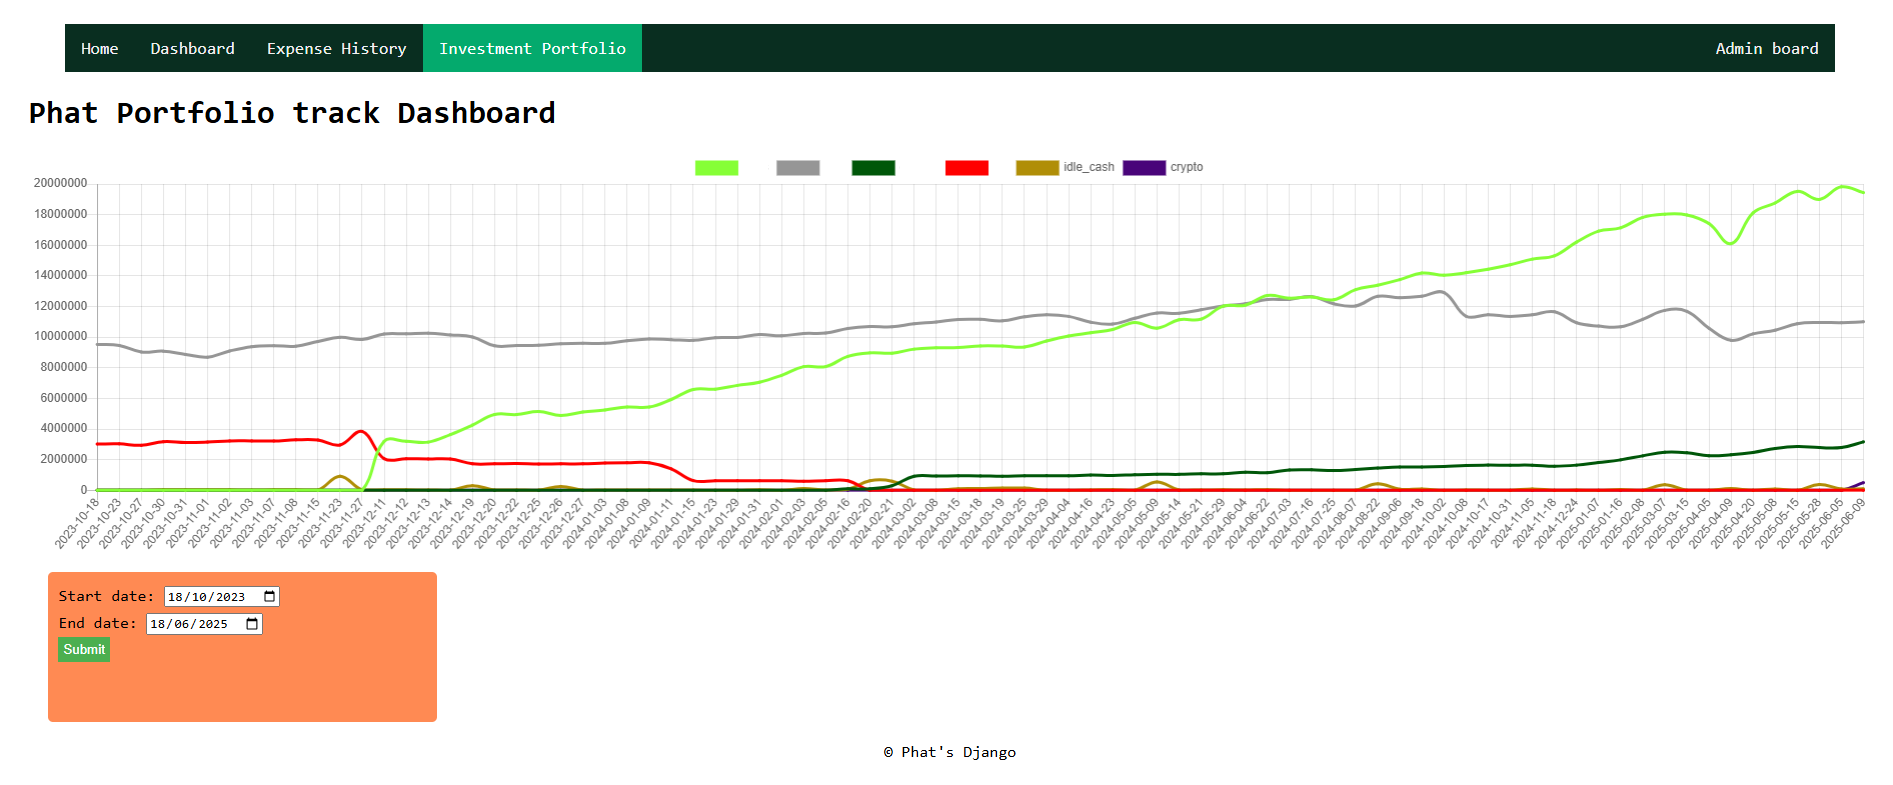
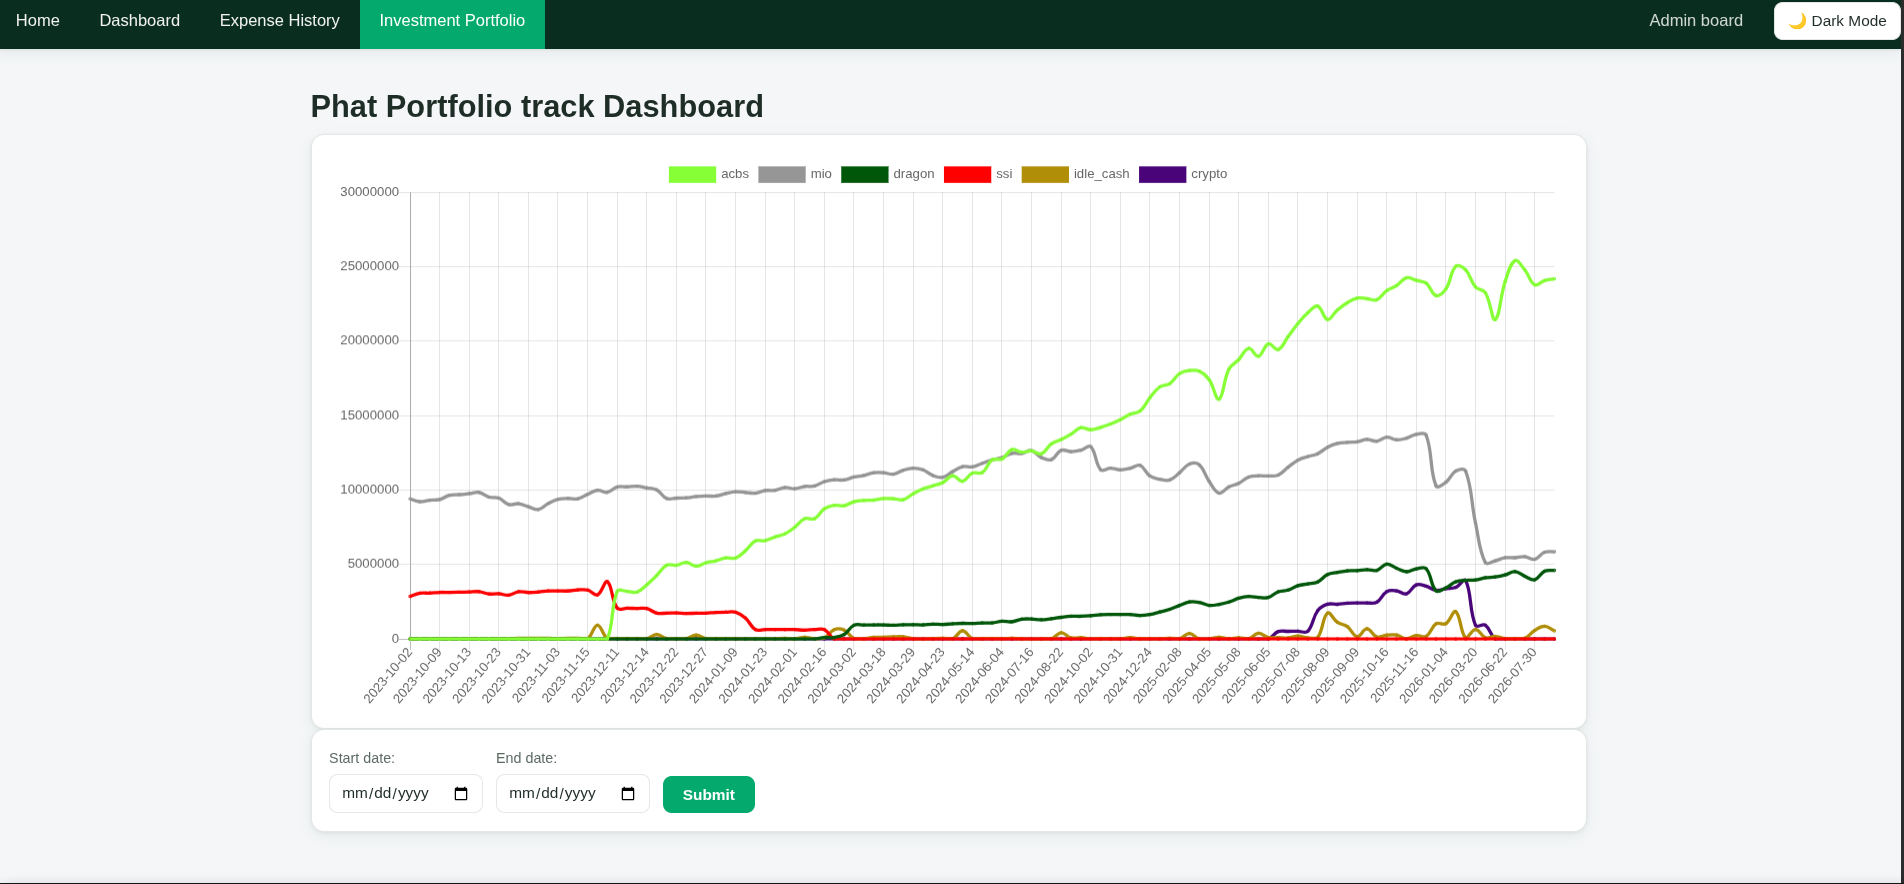
Update README.md

diff --git a/README.md b/README.md
@@ -1,40 +1,71 @@
-# Phat_Django_Badass
-> This is the Django backend to handle all the stuff in my life.
-I meant from personal finance, investment, dividend income or my gym routine to other stuffs that requires data management.
-I intended to build this not for my own usage only but for my family as well. User authentication and permission will be not a big deal tho
------
+<p align="center">
+  <h1 align="center">Phat_Django_Badass</h1>
+  <p align="center">
+    <b>Your personal command center for finance, investments, and life admin.</b><br>
+    Built with Django. Designed for family-scale use.
+  </p>
+</p>
 
-<h2>Financial Dashboard</h2>
-<p>My personal financial dashboard to keep things up-to-date</p>
+---
 
-<img title="" alt="" src="statics/Phat_Django_Dashboard.png"
-style="width:100%"/>
+## About
 
------
+This Django backend powers everything from personal finance, investments, and dividend income to gym routines and any other data-driven corners of life.
 
-<h2>Investment</h2>
-<p>Track my investment progress overtime, data input via Django admin model input form</p>
+Originally built for myself and extended for my family, it comes with robust user authentication and permission management baked in from day one.
 
-<img title="" alt="" src="statics/phat_investment_portfolio.png"
-style="width:100%"/>
+---
 
-## Tech used
-I want to keep cost down so I try some free-tier services, which also get the job done (the user pool is small, to be hosnest 👀😏)
+## Features
 
-- Clouflare D1 databasse <-> SQLite 🛢\
-The main database is hosted using Clouflare D1, this is the most suitable SQL cloudbase I can find to be cost-effective and lightweight. Of course, the database needs to be ACID compliant, or else the whole transaction thingy will be pointless.
+### Financial Dashboard
+A clean, real-time dashboard to keep your personal finances up to date.
 
-- Upstash Redis <-> Redis 🟥 \
-Redis is a exellent key-value based database, suitable for rapidly update value like balances, expenses and my real-time financial dashboard
+<p align="center">
+  <img alt="Dashboard - Light Mode" src="statics/Phat_Django_Dashboard_light.png" width="100%">
+  <img alt="Dashboard - Dark Mode" src="statics/Phat_Django_Dashboard_dark.png" width="100%">
+</p>
+
+### Expense Tracker
+Visualize spending habits and expenses at a glance.
+
+<p align="center">
+  <img alt="Expense Tracker" src="statics/Phat_Expense.png" width="100%">
+</p>
+
+### Investment Tracker
+Track investment progress over time. Data is entered via Django's built-in admin interface.
+
+<p align="center">
+  <img alt="Investment Portfolio" src="statics/phat_investment_portfolio.png" width="100%">
+</p>
+
+---
+
+## Tech Stack
+
+Kept lean and cost-effective — running on generous free-tier services that easily handle a small user pool (just family & friends 👀).
+
+| Service | Role | Why It Fits |
+|---------|------|-------------|
+| **Django** | Backend & Admin | Python web framework for rapid, secure development |
+| **Cloudflare D1** 🛢 | Primary Database | Serverless SQLite — ACID compliant, lightweight, and cost-effective |
+| **Upstash Redis** 🟥 | Caching & Real-time | Lightning-fast key-value store for balances, expenses, and live dashboard metrics |
+| **Docker** 🐳 | Deployment | Consistent, portable environments across the board |
+
+---
 
 ## Docker
-`sudo docker build . --tag Phat_Django_Badass:<version>`
 
-## Static files
-Templates reference assets via `{% static %}` (served from `STATIC_URL = "static/"`).
+Build the image:
 
-- **Development (`DEBUG=True`):** `runserver` serves static files automatically.
-- **Production (`DEBUG=False`):** the app serves static files through a dedicated route in `Phat_Django_Badass/urls.py` (only registered when `DEBUG` is off). When deploying behind a reverse proxy (e.g. Caddy/nginx), prefer serving `staticfiles/` from the proxy after `python manage.py collectstatic` instead of relying on the in-app route.
+```bash
+sudo docker build . --tag Phat_Django_Badass:<version>
+```
 
-## Release history
-- **1.3.2** – Serve static files when `DEBUG` is `False` (fixes 404 CSS/JS on the dashboard and other pages).
+---
+
+## License
+
+This project is licensed under the **MIT License** — feel free to use, modify, and distribute it as you see fit.
+See [LICENSE](LICENSE) for full details.
